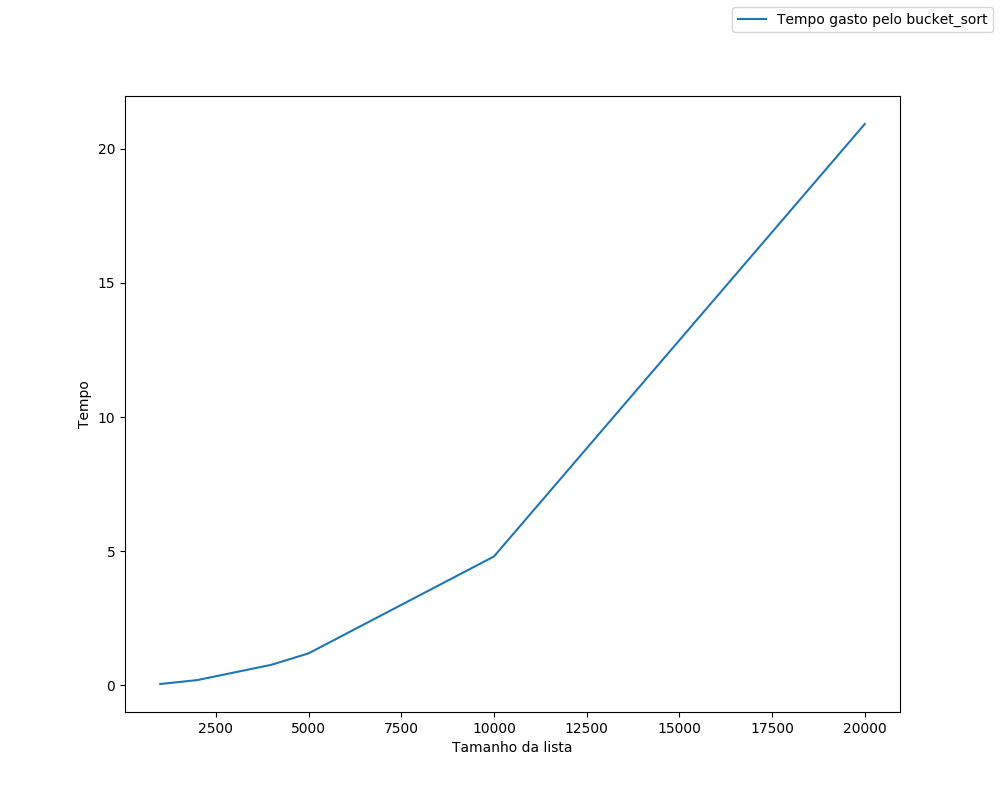
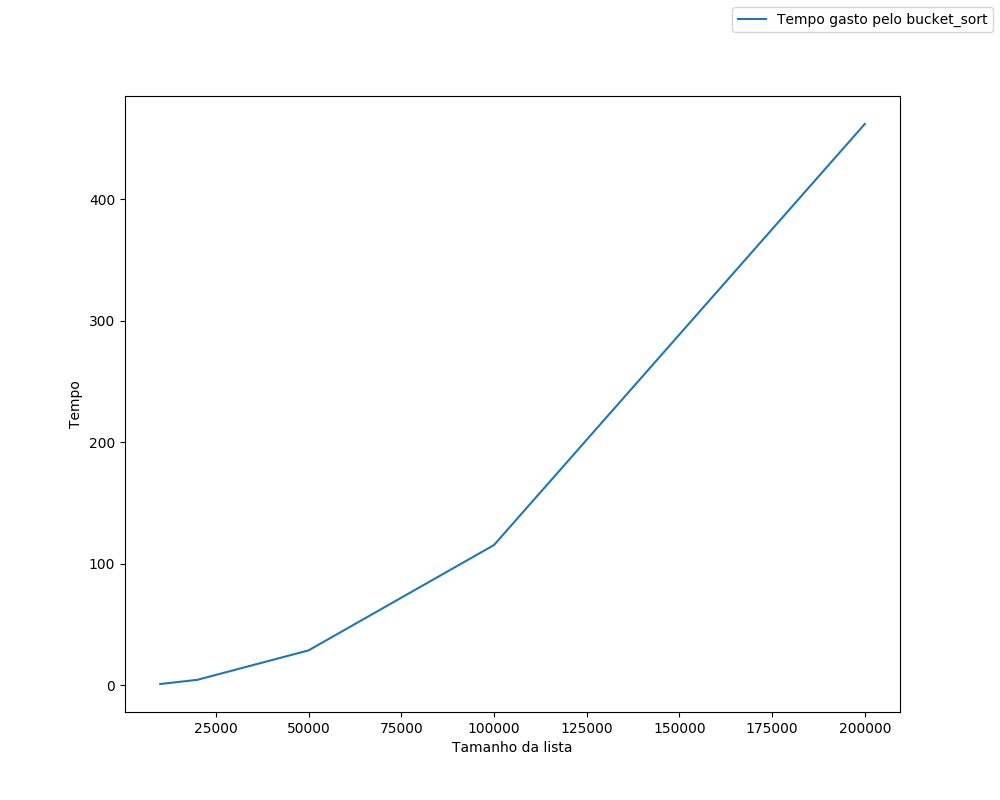
Contribuição 8, bucket sort

diff --git a/cont_8/bucket_sort.py b/cont_8/bucket_sort.py
@@ -4,11 +4,11 @@ import matplotlib.pyplot as plt
 
 def bucket_sort(lista):
     maximo = max(lista)
-    num_baldes = maximo//5
+    num_baldes = maximo//10
     baldes = [ [] for i in range(num_baldes)]
     for i in lista:
         for j in range(num_baldes-1, -1, -1):
-            if i >= j*5:
+            if i >= j*10:
                 baldes[j].append(i)
                 break
 
@@ -41,7 +41,7 @@ def desenha_grafico(x, y, file_name, label1, xl="Entradas", yl="Saídas"):
     fig.savefig(file_name)
 
 
-tam = [100000, 200000, 400000, 500000, 1000000, 2000000]
+tam = [10000, 20000, 50000, 100000, 200000]
 times = []
 for i in range(len(tam)):
     lista_aleatoria = list(range(1, tam[i] + 1))
